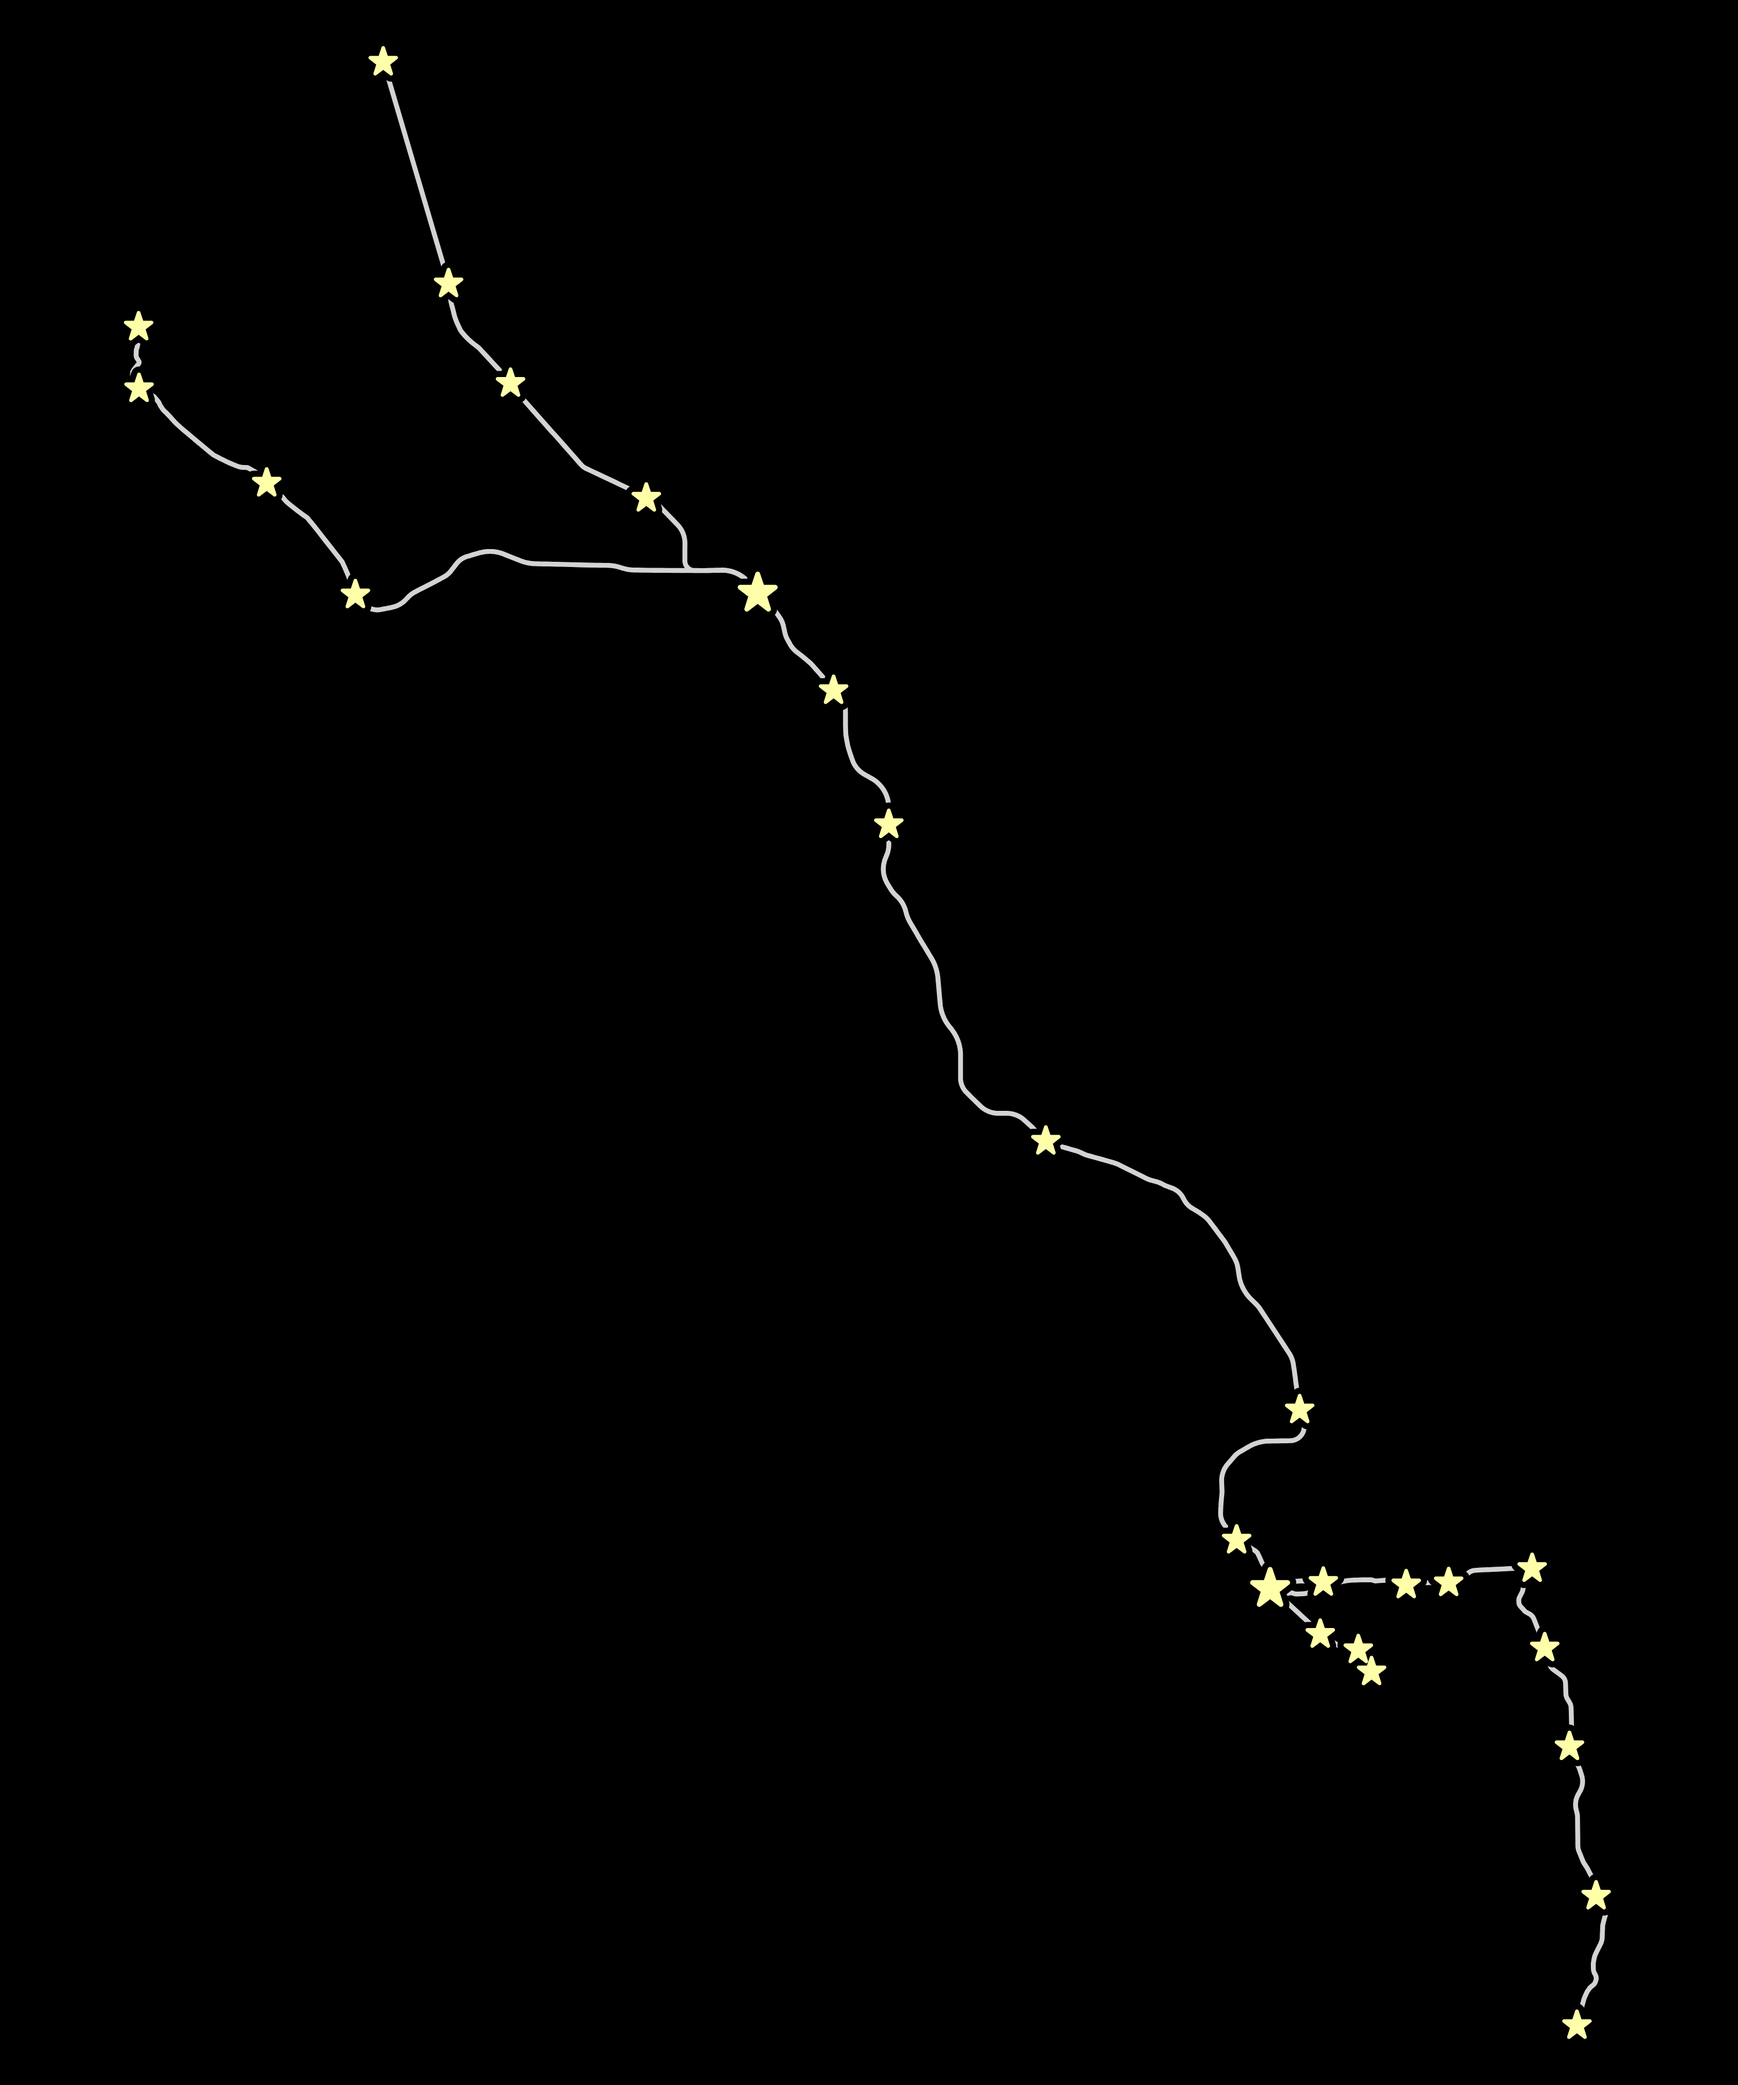
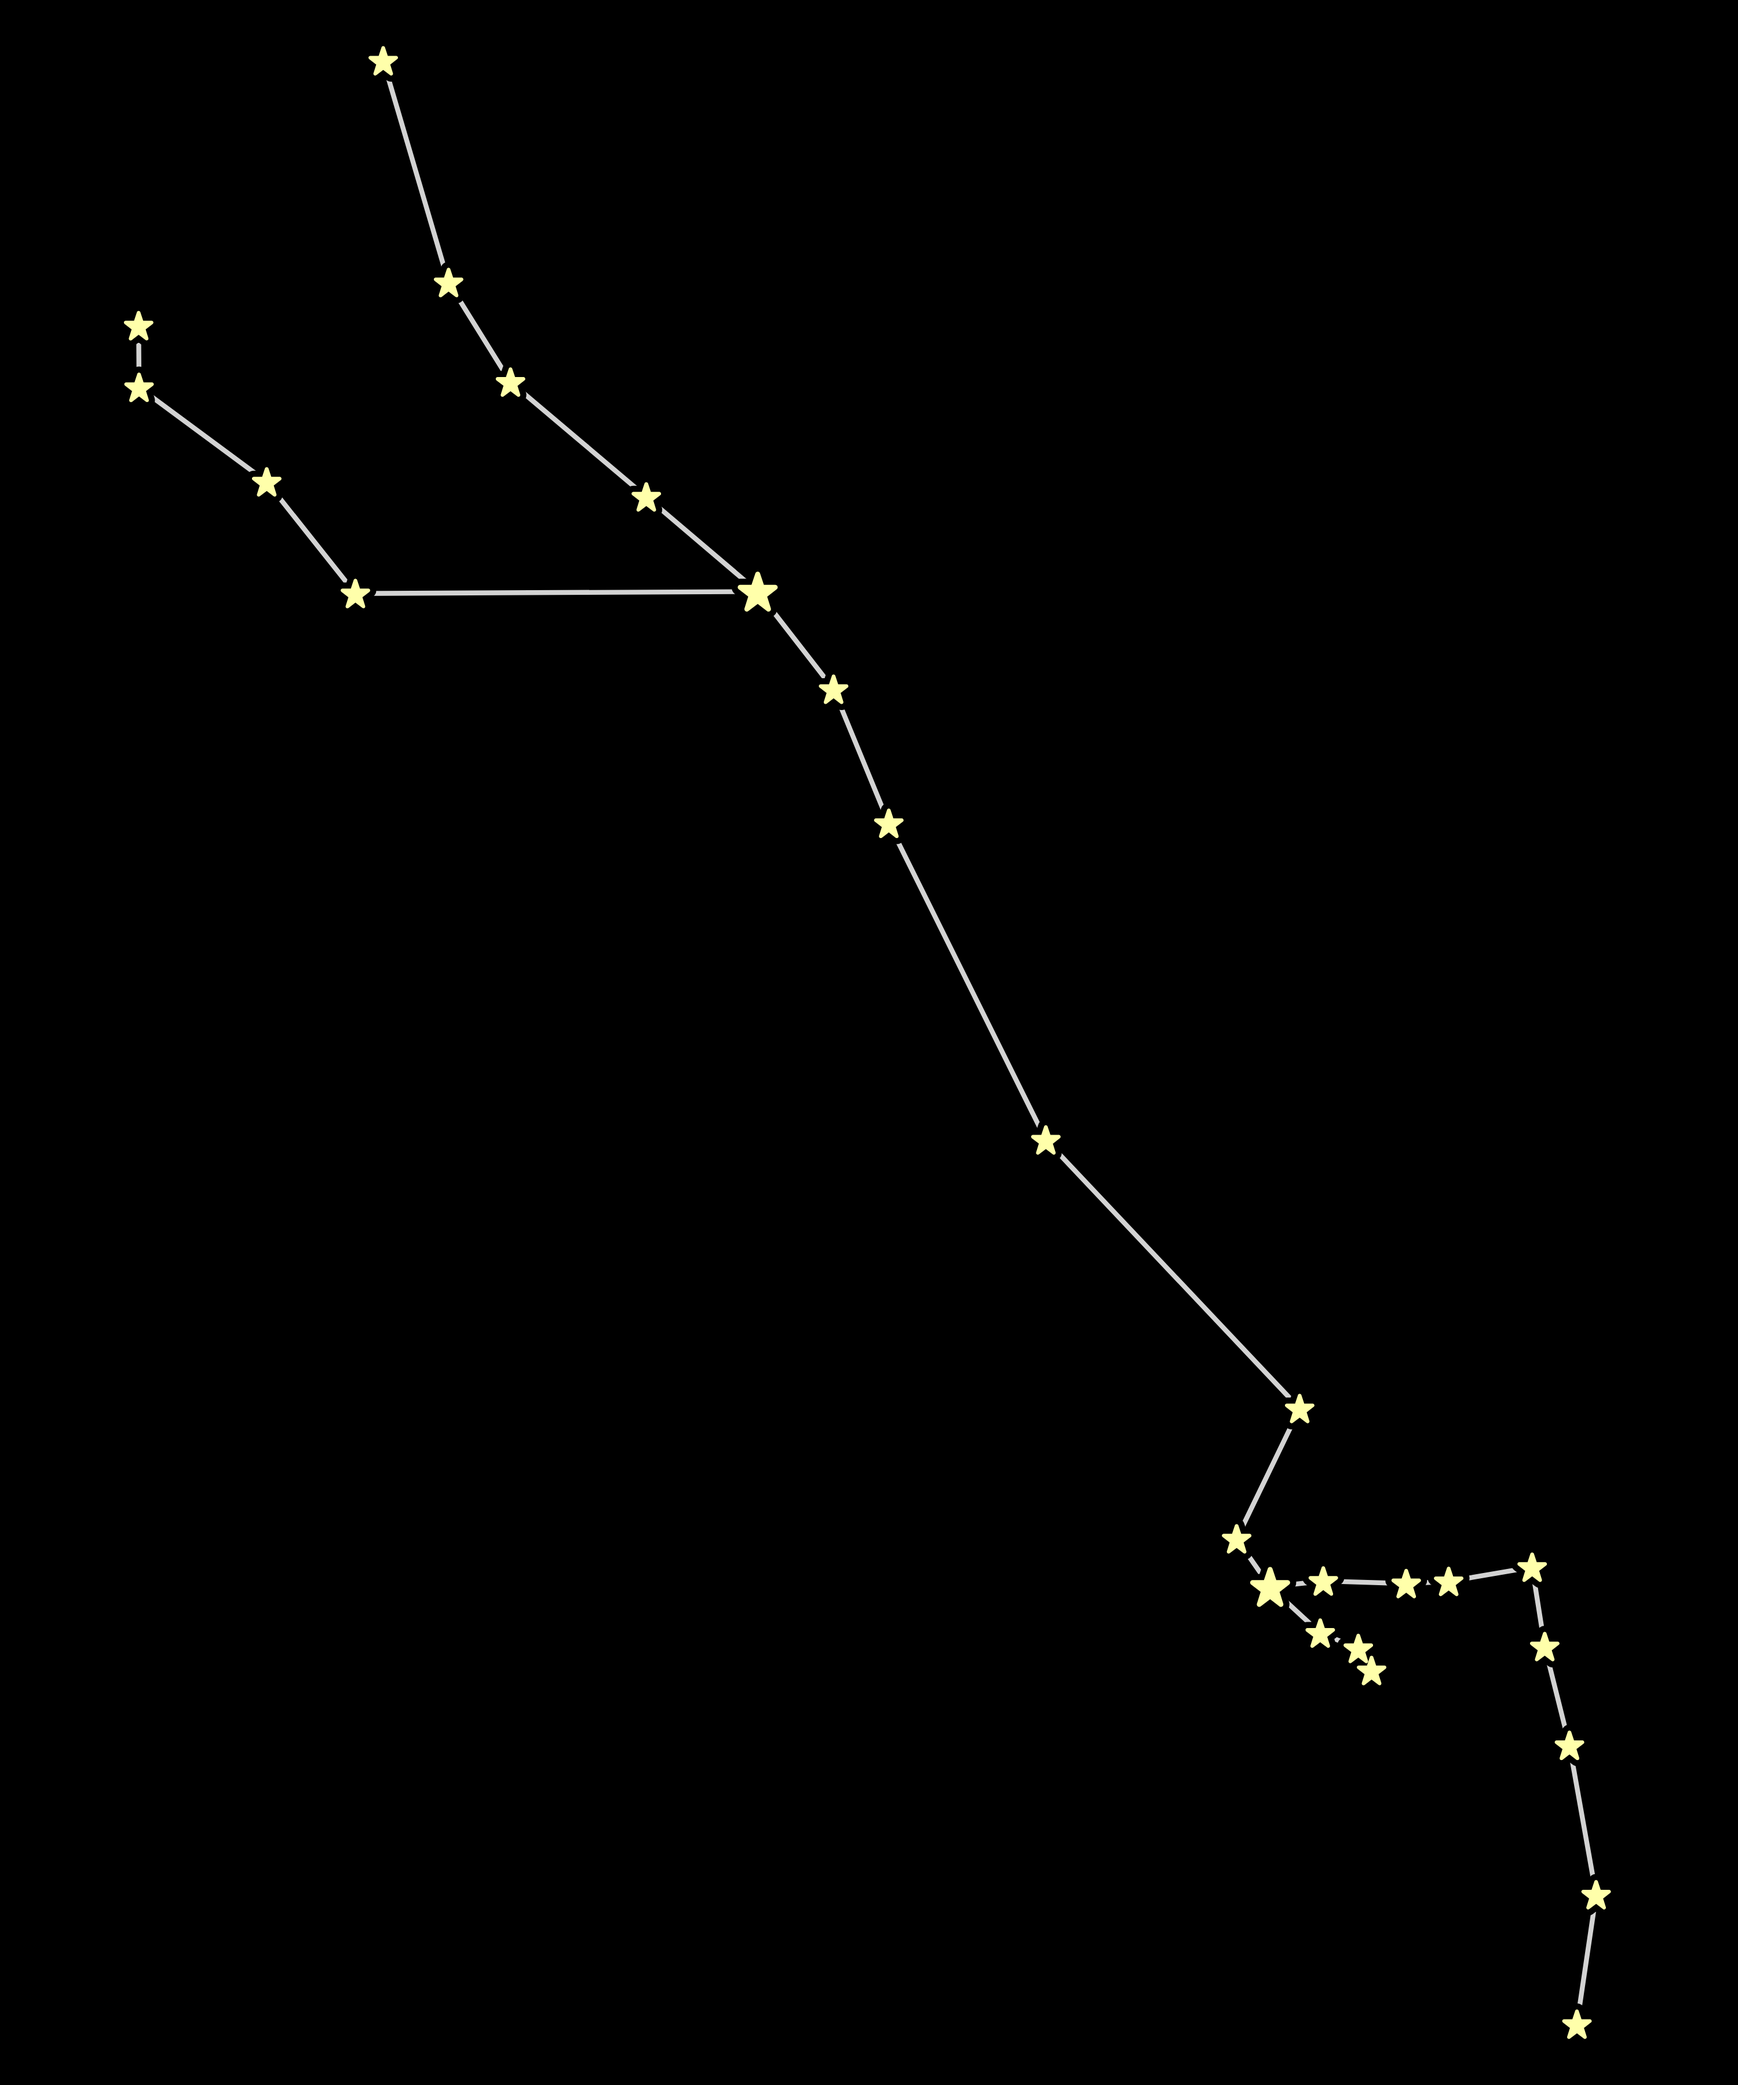
Use straight lines for California HSR; add a social card for the site
- cahsr: line_style straight.
- build_site.py renders docs/social-card.png (1200x630) from
  site/card.template.html, with the card map drawn bolder than the print
  file, and the page gets Open Graph and Twitter card tags pointing at the
  GitHub Pages address set in site/maps.yaml (url).

Claude-Session: https://claude.ai/code/session_01JpWq1hwMak1tmyrABjCjQ4

diff --git a/site/card.template.html b/site/card.template.html
@@ -1,0 +1,35 @@
+<!doctype html>
+<html lang="en">
+<head>
+<meta charset="utf-8">
+<link href="https://fonts.googleapis.com/css2?family=Cormorant+Garamond:ital,wght@0,600;1,500&family=IBM+Plex+Sans:wght@500&display=swap" rel="stylesheet">
+<style>
+  html, body { margin: 0; }
+  body {
+    width: 1200px; height: 630px; overflow: hidden; position: relative;
+    background: radial-gradient(ellipse at 30% -10%, #121a33, #05070d 70%);
+    color: #ece8d9;
+  }
+  .sky { position: absolute; inset: 0; }
+  .sky i { position: absolute; top: 0; left: 0; width: 1px; height: 1px; border-radius: 50%; }
+  .sky .s1 { box-shadow: {{stars_small}}; opacity: .5; }
+  .sky .s2 { width: 2px; height: 2px; box-shadow: {{stars_big}}; opacity: .7; }
+  .text { position: absolute; left: 72px; top: 0; bottom: 0; width: 520px; display: flex; flex-direction: column; justify-content: center; }
+  h1 { font: 600 88px/0.98 "Cormorant Garamond", Georgia, serif; letter-spacing: .02em; margin: 0 0 26px; }
+  h1 .mark { color: #ffffaa; font-size: .45em; vertical-align: .5em; margin-left: .15em; }
+  p { font: italic 500 32px/1.25 "Cormorant Garamond", Georgia, serif; color: #a9aec0; margin: 0 0 40px; }
+  .caption { font: 500 17px/1 "IBM Plex Sans", sans-serif; letter-spacing: .16em; text-transform: uppercase; color: #ffffaa; }
+  .map { position: absolute; right: 40px; top: 35px; width: 560px; height: 560px; }
+  .map img { width: 100%; height: 100%; object-fit: contain; }
+</style>
+</head>
+<body>
+  <div class="sky"><i class="s1"></i><i class="s2"></i></div>
+  <div class="text">
+    <h1>Transit<br>Star Maps<span class="mark">★</span></h1>
+    <p>{{tagline}}</p>
+    <div class="caption">{{caption}}</div>
+  </div>
+  <div class="map"><img src="{{map_src}}" alt=""></div>
+</body>
+</html>

diff --git a/docs/index.html b/docs/index.html
@@ -5,9 +5,21 @@
 <meta name="viewport" content="width=device-width, initial-scale=1">
 <title>Transit Star Maps</title>
 <meta name="description" content="Subway and light rail networks, drawn as constellations.">
+<link rel="canonical" href="https://mappingmashups.github.io/transit-star-maps/">
+<meta property="og:type" content="website">
+<meta property="og:url" content="https://mappingmashups.github.io/transit-star-maps/">
+<meta property="og:site_name" content="Transit Star Maps">
 <meta property="og:title" content="Transit Star Maps">
 <meta property="og:description" content="Subway and light rail networks, drawn as constellations.">
-<meta property="og:image" content="maps/bart.svg">
+<meta property="og:image" content="https://mappingmashups.github.io/transit-star-maps/social-card.png">
+<meta property="og:image:width" content="1200">
+<meta property="og:image:height" content="630">
+<meta property="og:image:alt" content="Transit Star Maps: BART in San Francisco Bay Area drawn as a constellation">
+<meta name="twitter:card" content="summary_large_image">
+<meta name="twitter:title" content="Transit Star Maps">
+<meta name="twitter:description" content="Subway and light rail networks, drawn as constellations.">
+<meta name="twitter:image" content="https://mappingmashups.github.io/transit-star-maps/social-card.png">
+<meta name="twitter:image:alt" content="Transit Star Maps: BART in San Francisco Bay Area drawn as a constellation">
 <link rel="icon" href="favicon.svg" type="image/svg+xml">
 <link rel="preconnect" href="https://fonts.googleapis.com">
 <link rel="preconnect" href="https://fonts.gstatic.com" crossorigin>

diff --git a/site/index.template.html b/site/index.template.html
@@ -5,9 +5,21 @@
 <meta name="viewport" content="width=device-width, initial-scale=1">
 <title>{{title}}</title>
 <meta name="description" content="{{tagline}}">
+<link rel="canonical" href="{{url}}">
+<meta property="og:type" content="website">
+<meta property="og:url" content="{{url}}">
+<meta property="og:site_name" content="{{title}}">
 <meta property="og:title" content="{{title}}">
 <meta property="og:description" content="{{tagline}}">
-<meta property="og:image" content="{{og_image}}">
+<meta property="og:image" content="{{url}}social-card.png">
+<meta property="og:image:width" content="1200">
+<meta property="og:image:height" content="630">
+<meta property="og:image:alt" content="{{card_alt}}">
+<meta name="twitter:card" content="summary_large_image">
+<meta name="twitter:title" content="{{title}}">
+<meta name="twitter:description" content="{{tagline}}">
+<meta name="twitter:image" content="{{url}}social-card.png">
+<meta name="twitter:image:alt" content="{{card_alt}}">
 <link rel="icon" href="favicon.svg" type="image/svg+xml">
 <link rel="preconnect" href="https://fonts.googleapis.com">
 <link rel="preconnect" href="https://fonts.gstatic.com" crossorigin>

diff --git a/scripts/build_site.py b/scripts/build_site.py
@@ -67,6 +67,48 @@ def card(entry, svg_path):
     </article>"""
 
 
+def social_card(site, entry):
+    """Render docs/social-card.png (1200 x 630), the link-preview image."""
+    import os
+    import tempfile
+
+    from playwright.sync_api import sync_playwright
+
+    html = (SITE / "card.template.html").read_text()
+    values = {
+        "tagline": escape(site["tagline"]),
+        "caption": escape(f"{entry['system']} · {entry['place']}"),
+        "map_src": "map.svg",
+        "stars_small": starfield(180, 3, 1200),
+        "stars_big": starfield(40, 4, 1200),
+    }
+    for key, value in values.items():
+        html = html.replace("{{" + key + "}}", value)
+    launch = {"executable_path": os.environ["CHROME_PATH"]} if os.environ.get("CHROME_PATH") else {}
+    with tempfile.TemporaryDirectory() as tmp:
+        page_path = Path(tmp) / "card.html"
+        page_path.write_text(html)
+        # The card shows the map at about a fifth of print size, so draw it
+        # with bolder stars and lines than the print file.
+        cfg = config.load(entry["city"])
+        st = cfg["style"]
+        for key, factor in (("star_size_in", 1.8), ("large_star_size_in", 1.8), ("minor_star_size_in", 1.8),
+                            ("line_width_in", 1.7), ("gap_in", 1.6)):
+            st[key] *= factor
+        if entry.get("line_style"):
+            st["line_style"] = entry["line_style"]
+        _, stations, segments = network.load(entry["city"])
+        (Path(tmp) / "map.svg").write_text(render.svg(stations, segments, cfg, "transparent"))
+        with sync_playwright() as pw:
+            browser = pw.chromium.launch(**launch)
+            page = browser.new_page(viewport={"width": 1200, "height": 630})
+            page.goto(page_path.as_uri())
+            page.wait_for_load_state("networkidle")
+            page.evaluate("document.fonts.ready")
+            page.screenshot(path=str(DOCS / "social-card.png"))
+            browser.close()
+
+
 def main():
     site = yaml.safe_load((SITE / "maps.yaml").read_text())
     DOCS.mkdir(exist_ok=True)
@@ -80,7 +122,12 @@ def main():
     shop_all = (
         f'<a class="button shop-all" href="{escape(site["shop_all"])}">Shop all shirts</a>' if site.get("shop_all") else ""
     )
-    first = f"maps/{site['maps'][0]['city']}.svg" if site["maps"] else ""
+    url = site["url"].rstrip("/") + "/"
+    card_entry = next((e for e in site["maps"] if e["city"] == site["card_map"]), None)
+    if card_entry is None:
+        raise SystemExit(f"card_map {site['card_map']!r} must be one of the maps listed")
+    card_alt = f"{site['title']}: {card_entry['system']} in {card_entry['place']} drawn as a constellation"
+    social_card(site, card_entry)
     values = {
         "title": escape(site["title"]),
         "tagline": escape(site["tagline"]),
@@ -89,7 +136,8 @@ def main():
         "cards": "\n".join(cards),
         "links": links,
         "year": str(dt.date.today().year),
-        "og_image": first,
+        "url": escape(url),
+        "card_alt": escape(card_alt),
         "stars_small": starfield(260, 1),
         "stars_big": starfield(60, 2),
     }

diff --git a/README.md b/README.md
@@ -82,6 +82,8 @@ The site at transitstarmaps.com is a single static page in `docs/`, served by Gi
 .venv/bin/python scripts/build_site.py
 ```
 
+The build also renders `docs/social-card.png` (1200 × 630), the image shown when the site is linked on social media or in chat apps; `card_map` in `site/maps.yaml` picks its map, and `url` sets the address the preview tags point to (switch it to https://transitstarmaps.com/ along with the DNS). The same image can be uploaded as the repository's social preview under Settings → General.
+
 To add a map, render it, add a line to `site/maps.yaml` (place, system name, Zazzle link), and rebuild. Edit `site/index.template.html`, not `docs/index.html`. For the custom domain, point transitstarmaps.com's DNS at GitHub Pages; `docs/CNAME` is already set.
 
 Printing on shirts
